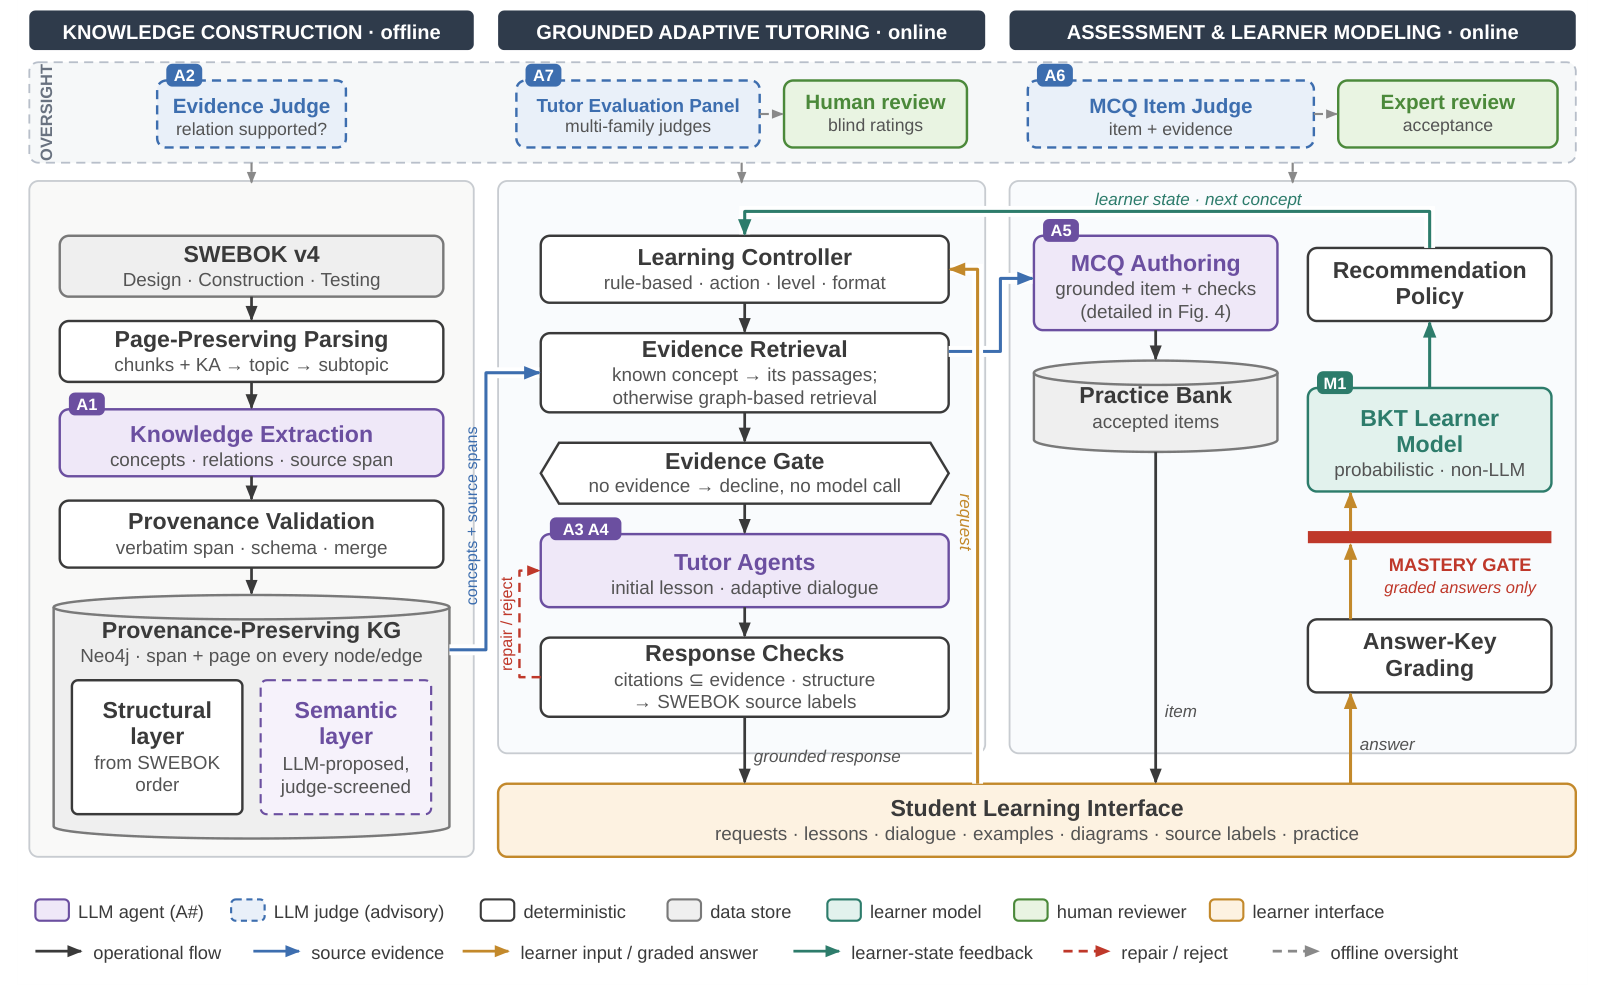
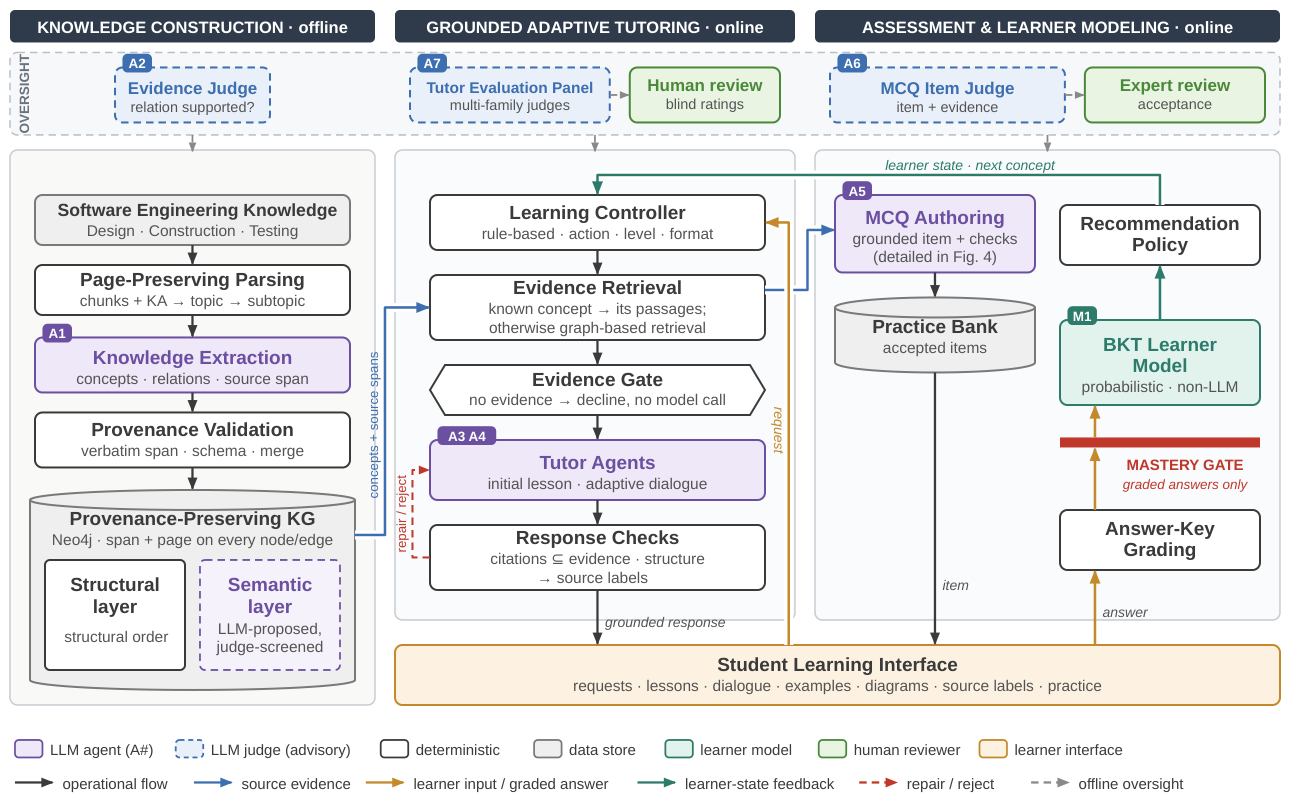
Update research overview and replace architecture figure

Changed region(s): [[0.0, 0.0, 0.9922, 0.9877]]

diff --git a/example.py b/example.py
@@ -60,7 +60,7 @@ def update_mastery(prior: float, outcome: bool | None) -> float:
 
 
 def main() -> None:
-    # Author-written synthetic text, not a passage from SWEBOK.
+    # Author-written synthetic text, not a passage from the research source corpus.
     source = {
         "chunk_id": "synthetic-1", "page_start": 1, "page_end": 1,
         "text": "A focused module groups responsibilities that belong together.",

diff --git a/README.md b/README.md
@@ -8,13 +8,13 @@ Research overview accompanying the GraphSE-Learn manuscript.
 
 GraphSE-Learn connects software engineering concepts to their source evidence, uses specialized agents to generate tutoring and assessment content, and assigns workflow control, grading, and mastery updates to deterministic components. The manuscript studies technical reliability; student learning outcomes remain a separate empirical question.
 
-The study uses SWEBOK v4 knowledge from **Software Design, Software Construction, and Software Testing**. This repository presents the architecture and selected figures from the research manuscript. A single self-contained offline example illustrates three deterministic mechanisms with synthetic data. The implementation used in the study and the SWEBOK source corpus are not distributed here.
+The architecture organizes software engineering knowledge across **Design, Construction, and Testing**, preserving the source passages behind concepts and relationships. This repository shares the research overview, the architecture diagram, and executable components for provenance validation, assessment grading, and learner modeling. The shared code uses synthetic data; the full research implementation and source corpus are not distributed here.
 
 ## Architecture
 
 ![Figure 1. GraphSE-Learn architecture overview](docs/figures/fig1-overview.png)
 
-*Figure 1 from the manuscript.* The architecture connects three stages, with advisory evaluation and human oversight shown separately from operational control.
+*GraphSE-Learn architecture overview.* The updated diagram connects offline knowledge construction, online grounded adaptive tutoring, and assessment with learner modeling. Advisory evaluation and human oversight are shown separately from operational control.
 
 1. **Offline knowledge construction:** page-preserving parsing, concept and relation extraction (A1), deterministic provenance validation, canonicalization, and advisory evidence judging (A2). The graph distinguishes source-derived structural relations from model-proposed semantic relations. Each accepted semantic record retains its source evidence.
 2. **Online grounded adaptive tutoring:** a deterministic Learning Controller resolves the request, selects evidence and bounded context, invokes the Initial Tutor (A3) or Adaptive Dialogue Tutor (A4), and checks response structure and citation references. A known concept resolves directly to its source passages; open queries can use concept matching, graph traversal, ranking, and provenance lookup.
@@ -37,19 +37,11 @@ These components describe the research system; this repository does not distribu
 
 ## Grounded tutoring and controlled generation
 
-![Figure 3. One grounded tutoring turn](docs/figures/fig3-tutoring-turn.png)
-
-*Figure 3 from the manuscript.*
-
 The harness controls model inputs and checks structured outputs. Citation indices must refer to the supplied evidence; generated examples and other teaching assets remain distinguishable from source passages. Requests without usable evidence are declined without a model call. Invalid outputs receive bounded repair attempts and an explicit fallback if repair fails. Dialogue supplies instructional context but does not update mastery.
 
 These checks establish structural compliance and traceability. They do not independently establish that a passage semantically supports every generated claim, a limitation examined directly in the manuscript.
 
 ## Assessment, adaptation, and mastery
-
-![Figure 5. Assessment evidence and the mastery loop](docs/figures/fig5-mastery-loop.png)
-
-*Figure 5 from the manuscript.*
 
 The learner model applies standard Bayesian Knowledge Tracing after each graded answer, using pilot parameters `P(L0)=0.30`, `P(T)=0.30`, `P(G)=0.20`, and `P(S)=0.10`. The mastery threshold is **0.95**; the recommendation policy uses a separate attention cutoff of **0.60**. These are pilot settings, not estimates fitted to student data.
 
@@ -57,25 +49,21 @@ Unsure responses, dialogue, lesson views, and requests do not update mastery. Mi
 
 ## Technical evaluation in the manuscript
 
-![Figure 6. Three-level technical evaluation framework](docs/figures/fig6-evaluation.png)
-
-*Figure 6 from the manuscript.*
-
 The paper evaluates a single frozen system at three levels:
 
 - **Requirements traceability:** architectural requirements mapped to their code or documentation basis and integration tests.
 - **Component evaluation:** knowledge construction, retrieval comparisons, tutor evidence controls, MCQ generation, learner-model simulation, and agreement between automated and human judgments.
 - **Integration validation:** controlled learner workflows, boundary cases, and fault injection across components.
 
-The study distinguishes structural reliability from semantic grounding and technical performance from educational effectiveness. The figures describe the study design; they do not provide an executable reproduction of the manuscript experiments.
+The study distinguishes structural reliability from semantic grounding and technical performance from educational effectiveness. The shared components illustrate selected mechanisms; they do not reproduce the manuscript experiments.
 
 ## Repository contents
 
 - `README.md`: research overview, authors, and architecture.
-- `docs/figures/`: four manuscript figure previews.
+- `docs/figures/fig1-overview.png`: the updated architecture diagram.
 - `example.py`: one standalone synthetic example of provenance checks, answer-key grading, and standard BKT.
 
-Figures 1, 3, 5, and 6 are taken from the authors' manuscript and retain its original numbering. They describe the complete research system and evaluation.
+The architecture diagram describes the complete research system, including components outside the shared code.
 
 ## Running the shared components
 
